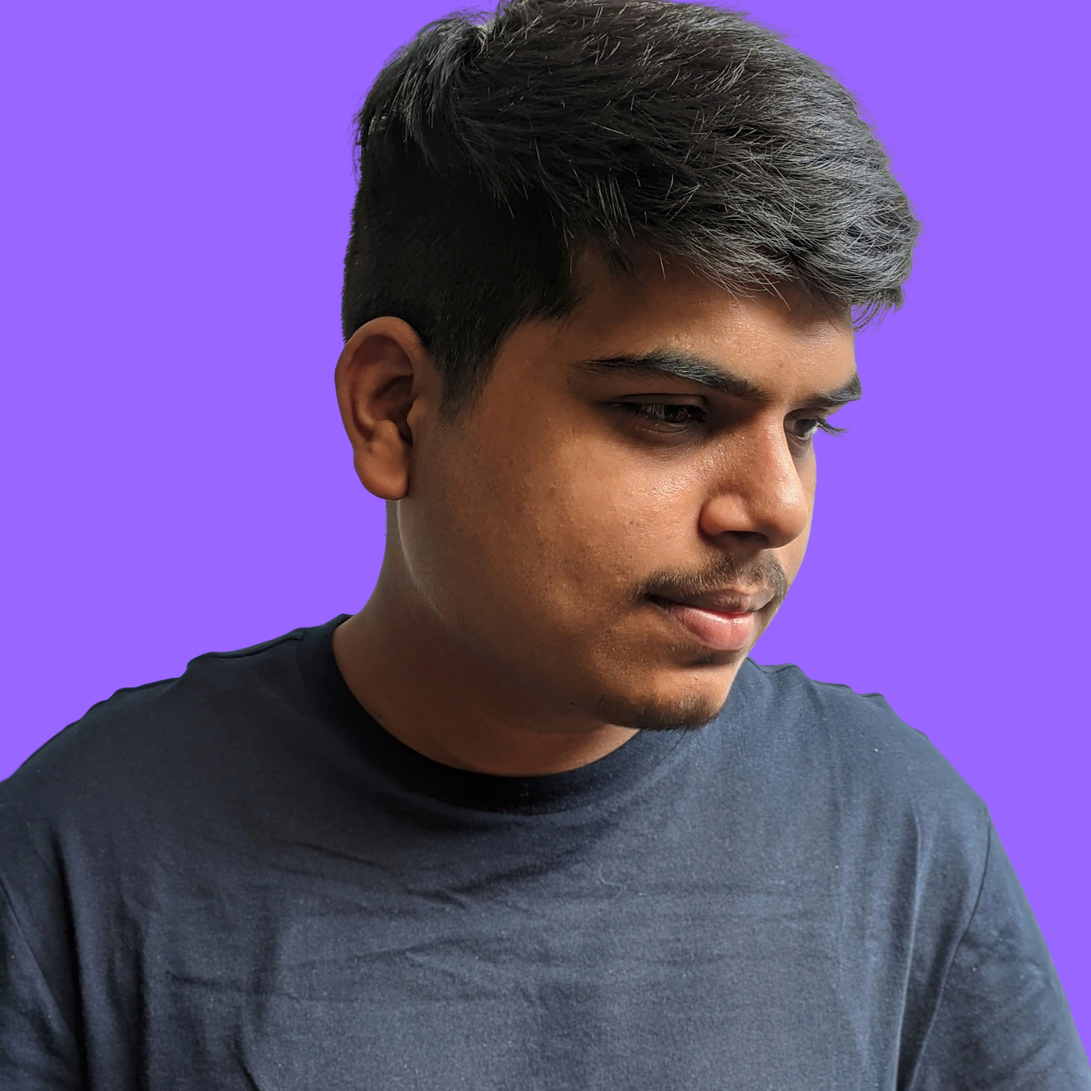
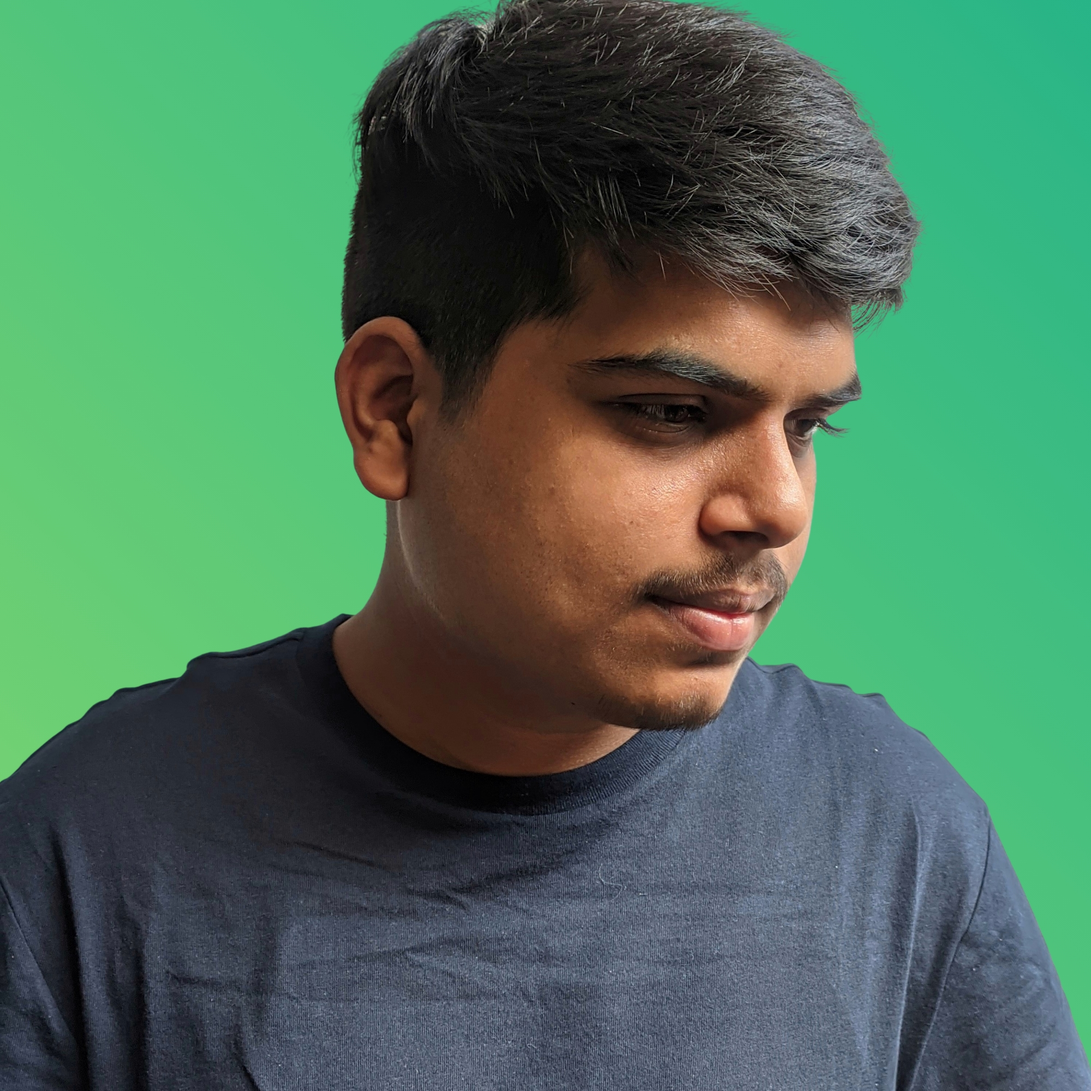
Update

diff --git a/assets/css/index.css b/assets/css/index.css
@@ -9,8 +9,8 @@
 
 /* root variables */
 :root {
-  --primary: #18c5dd;
-  --secondary: #18c5ddc7;
+  --primary: #7dd56f;
+  --secondary: #28b487;
   --background: #ffffff;
   --background-secondary: #f0f0f0;
   --light: #151418;
@@ -92,11 +92,13 @@ body {
 /* side navbar text */
 .about {
   color: #ffffff;
-  background: linear-gradient(
-    270deg,
-    rgb(19, 173, 199) 0%,
-    rgb(148, 93, 214) 100%
+  background: var(--secondary);
+  background: -webkit-linear-gradient(
+    45deg,
+    var(--secondary) 0%,
+    var(--primary) 100%
   );
+  background: linear-gradient(45deg, var(--secondary) 0%, var(--primary) 100%);
   padding: 2px 25px;
   border-radius: 2px;
   margin: 0 0 50px 0;
@@ -262,11 +264,13 @@ ul li {
 
 .highlited {
   color: var(--background);
-  background: linear-gradient(
-  45deg,
-    rgb(19, 173, 199) 0%,
-    rgb(148, 93, 214) 100%
+  background: var(--secondary);
+  background: -webkit-linear-gradient(
+    45deg,
+    var(--secondary) 0%,
+    var(--primary) 100%
   );
+  background: linear-gradient(45deg, var(--secondary) 0%, var(--primary) 100%);
   background-size: 200% 200%;
   -webkit-background-clip: text;
   -webkit-text-stroke: 4px transparent;
@@ -321,7 +325,7 @@ ul li {
   background: var(--base);
   -webkit-backdrop-filter: blur(10px);
   backdrop-filter: blur(10px);
-  box-shadow: 0 0 10px 0 var(--box-shadow);
+  box-shadow: 2px 2px 10px 0 var(--box-shadow);
   padding: 35px 25px;
   border-radius: 5px;
   text-align: center;
@@ -368,10 +372,14 @@ ul li {
   background: var(--base);
   -webkit-backdrop-filter: blur(10px);
   backdrop-filter: blur(10px);
-  box-shadow: 0 0 10px 0 var(--box-shadow);
+  box-shadow: 2px 2px 10px 0 var(--box-shadow);
   border-radius: 5px;
   transition: 0.4s;
   padding: 40px 0 60px 0;
+}
+
+.item:hover {
+  box-shadow: 2px 2px 20px 0 var(--box-shadow);
 }
 
 /* item content */
@@ -383,10 +391,16 @@ ul li {
   text-transform: uppercase;
   letter-spacing: 0.1rem;
   border-bottom: 3px solid transparent;
+  border-image: var(--secondary);
+  border-image: -webkit-linear-gradient(
+    45deg,
+    var(--secondary) 0%,
+    var(--primary) 100%
+  );
   border-image: linear-gradient(
-    270deg,
-    rgb(19, 173, 199) 0%,
-    rgb(148, 93, 214) 100%
+    45deg,
+    var(--secondary) 0%,
+    var(--primary) 100%
   );
   border-image-slice: 1;
 }
@@ -395,18 +409,19 @@ ul li {
   margin: 0 50px !important;
   padding: 20px 0 20px 0;
   color: var(--font-secondary);
-  transition: 0.4s;
 }
 
 button {
   background: none;
   text-align: center;
   border-radius: 5px;
-  background: linear-gradient(
-    270deg,
-    rgb(19, 173, 199) 0%,
-    rgb(148, 93, 214) 100%
+  background: var(--secondary);
+  background: -webkit-linear-gradient(
+    45deg,
+    var(--secondary) 0%,
+    var(--primary) 100%
   );
+  background: linear-gradient(45deg, var(--secondary) 0%, var(--primary) 100%);
   border: none;
   margin: 0 !important;
   height: 40px;
@@ -417,6 +432,7 @@ button {
   outline: none;
   font-size: 1rem !important;
   font-weight: 900 !important;
+  transition: 0.4s;
 }
 
 button:hover {
@@ -479,11 +495,13 @@ button:hover {
   border-radius: 2px;
   transform: scaleX(0);
   transform-origin: left;
-  background: linear-gradient(
-    270deg,
-    rgb(19, 173, 199) 0%,
-    rgb(148, 93, 214) 100%
+  background: var(--secondary);
+  background: -webkit-linear-gradient(
+    45deg,
+    var(--secondary) 0%,
+    var(--primary) 100%
   );
+  background: linear-gradient(45deg, var(--secondary) 0%, var(--primary) 100%);
   animation: animate 1s 1s cubic-bezier(1, 0, 0.5, 1) forwards;
 }
 
@@ -1014,10 +1032,10 @@ p a:hover {
 }
 
 @media screen and (max-width: 320px) {
-    /* top text */
-    .top_text {
-      font-size: 1.6rem !important;
-    }
+  /* top text */
+  .top_text {
+    font-size: 1.6rem !important;
+  }
 }
 
 @media screen and (max-width: 280px) {

diff --git a/index.html b/index.html
@@ -17,7 +17,9 @@
   <link href="https://fonts.googleapis.com/css2?family=Space+Grotesk:wght@300;400;500;600;700&display=swap"
     rel="stylesheet">
   <!-- font awesome -->
-  <link rel="stylesheet" href="https://cdnjs.cloudflare.com/ajax/libs/font-awesome/5.15.3/css/all.min.css">
+  <link rel="stylesheet" href="https://cdnjs.cloudflare.com/ajax/libs/font-awesome/5.15.4/css/all.min.css"
+    integrity="sha512-1ycn6IcaQQ40/MKBW2W4Rhis/DbILU74C1vSrLJxCq57o941Ym01SwNsOMqvEBFlcgUa6xLiPY/NS5R+E6ztJQ=="
+    crossorigin="anonymous" referrerpolicy="no-referrer" />
 </head>
 
 <body>
@@ -107,7 +109,10 @@
           <p class=" bottom_text">I believe in conveying ideas and ethics in a creative way by presenting futuristic
             designs to the users on
             social media and other platforms.</p>
-          <a class="link_text" href="https://linktr.ee/prashal9499" target="_blank">linktr.ee/prashal9499</a>
+          <a href="https://linktr.ee/prashal9499" target="_blank">
+            <button>Follow</button>
+          </a>
+          <!-- <a class="link_text" href="https://linktr.ee/prashal9499" target="_blank">linktr.ee/prashal9499</a> -->
         </div>
         <a href="#about_me">
           <div class="btn-scroll">
@@ -119,7 +124,7 @@
         <!-- about me -->
         <div class="p-1" id="about_me">
           <h1 class="main_text">About Me</h1>
-          <p><span class="bold">Hi there,<br></span>
+          <p><span class="bold">Hi there ✋🏽,<br></span>
             I'm <a href="">Prashal Tarkas</a>, currently pursuing Integrated MCA from
             <a href=" https://www.ipsacademy.org/college/school-of-computers" target="_blank">School
               of Computers, IPS Academy, Indore.</a>
